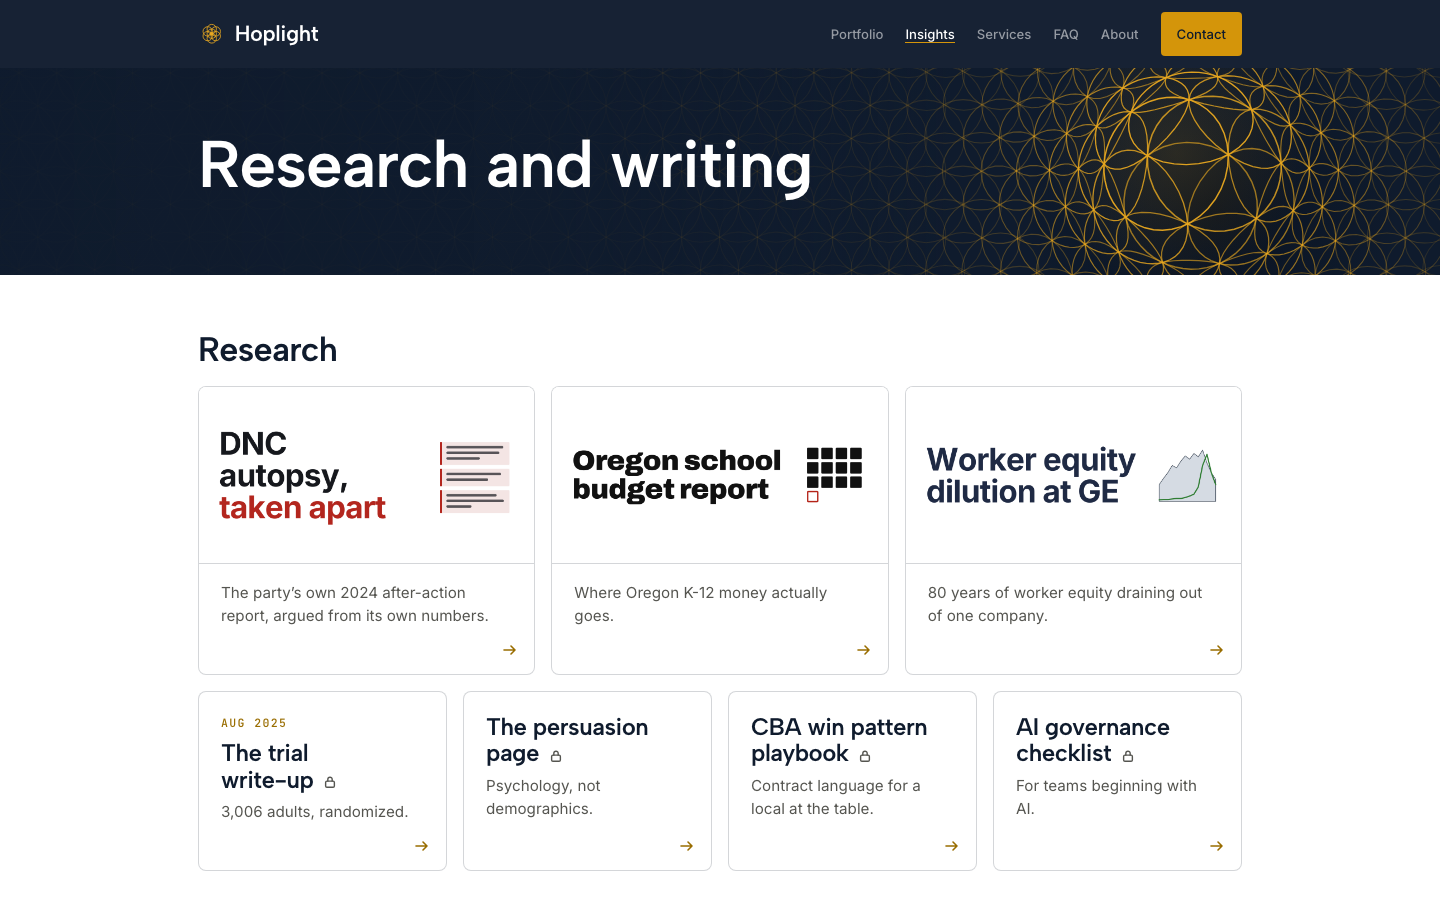
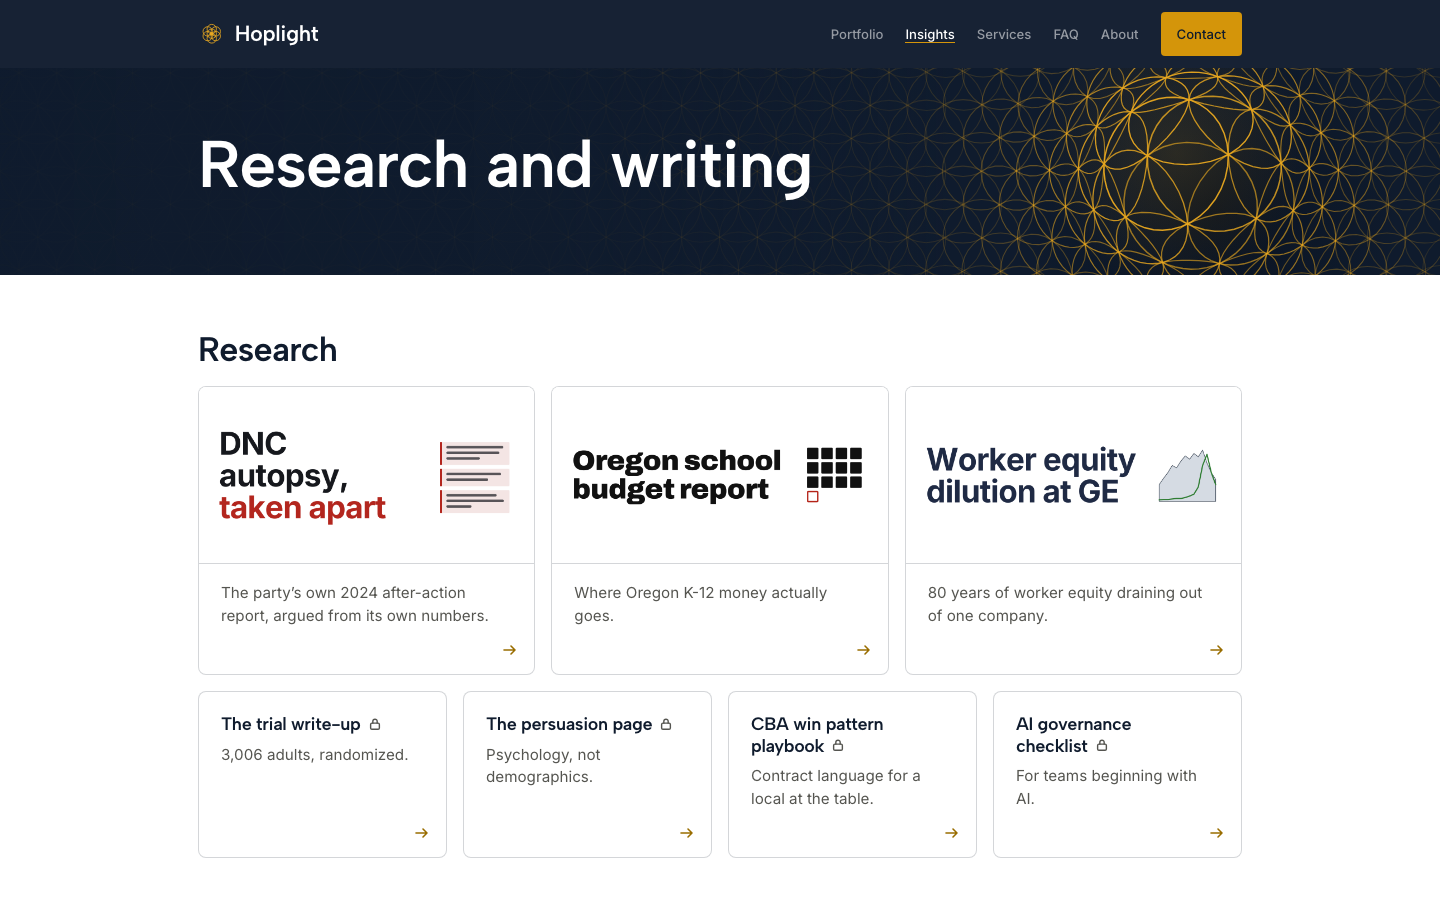
portsplit1 round five polish: the trial card loses its date, and quarter-width text cards set a smaller title
Design review, 2026-11-07: the trial write-up was the only dated research card; short names wrapped in the quarter-width cards.

- insights-content: the trial's Aug 2025 date removed.
- globals.css: .rw-text .ptile h3 at 1.125rem, so The trial write-up and The persuasion page sit on one line with the lock at 1440. The picture cards' own lettering is unchanged.
- Tests red first (2 fail: a research card carries a date tag; no text-card title size), then npm test 214 of 214; build green.
- /insights re-rendered at 375 and 1440 into round5.

diff --git a/src/app/globals.css b/src/app/globals.css
@@ -1288,6 +1288,9 @@ header.site .brand, footer.site .brand { min-height: 44px; }
 .rw-writing { grid-template-columns: repeat(auto-fit, minmax(min(100%, 300px), 1fr)); }
 .rw a.ptile:hover { border-color: var(--gold); box-shadow: var(--shadow-hover); }
 .rw .ptile h3 { font-size: clamp(1.25rem, 1.05rem + 0.6vw, 1.5rem); }
+/* Round five polish (2026-11-07): a quarter-width card sets its title smaller, so a short name such as
+   "The trial write-up" sits on one line with its lock. */
+.rw-text .ptile h3 { font-size: 1.125rem; line-height: 1.2; }
 .ptile-pic { padding: 0; gap: 0; overflow: hidden; }
 .ptile-img { aspect-ratio: 1200 / 630; border-bottom: 1px solid var(--line-card); background: var(--white); }
 .ptile-img img { display: block; width: 100%; height: 100%; object-fit: contain; }

diff --git a/src/lib/insights-content.ts b/src/lib/insights-content.ts
@@ -62,8 +62,8 @@ export const RESEARCH: InsightItem[] = [
     // Cut to its own first sentence (HOPSITE2 design review, 2026-11-07); the write-up carries the rest.
     line: `${FACTS.rct.n} adults, randomized.`,
     href: '/research',
-    iso: '2025-08',
-    shown: 'Aug 2025',
+    // Its "Aug 2025" date went in the round five polish (PORTSPLIT1, 2026-11-07): it was the only dated
+    // research card. The trial was fielded in August 2025 (FACTS.rct.date); the write-up says so.
   },
   {
     kind: 'Research',
